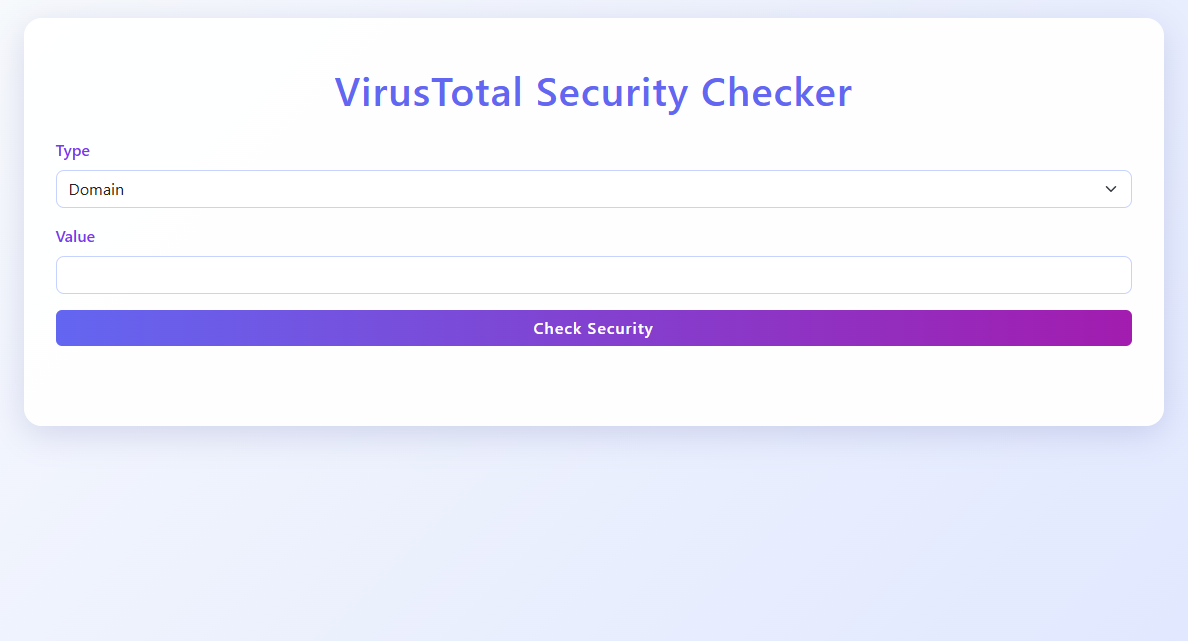
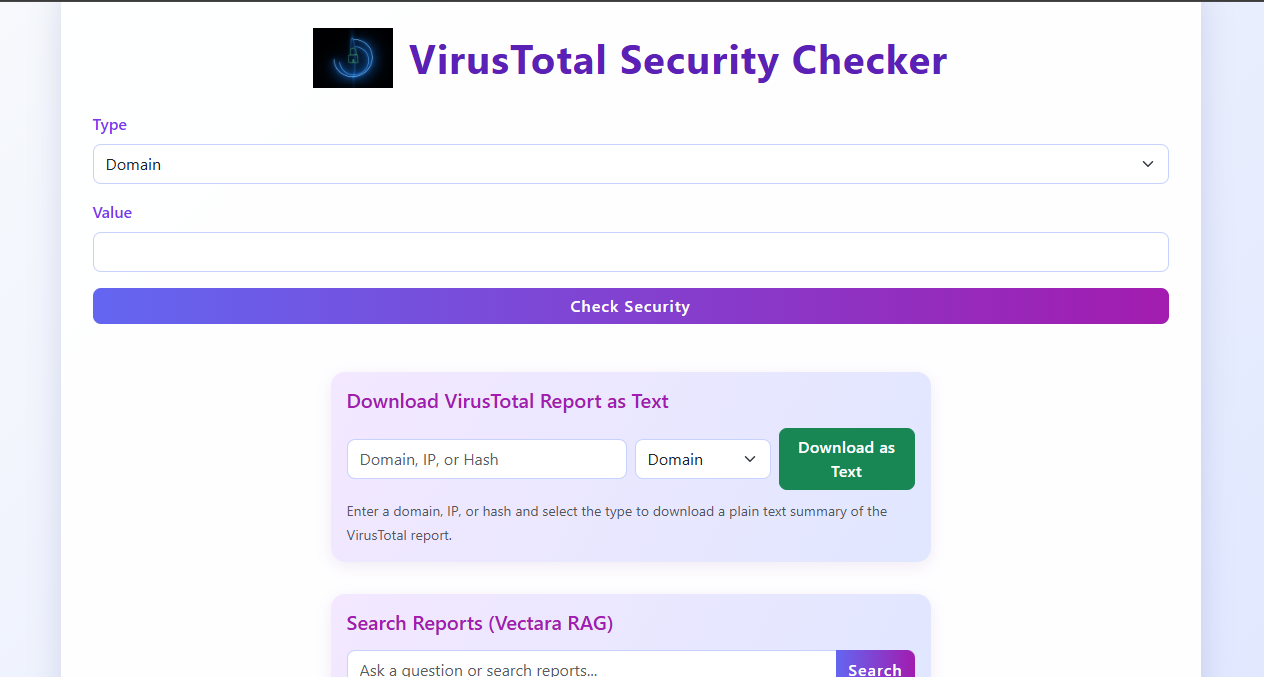
Update images

diff --git a/README.md b/README.md
@@ -1,7 +1,8 @@
 
+
 # VirusTotal Security Checker (FastAPI Web App)
 
-A modern, full-stack web application for checking the security status of domains, IP addresses, and file hashes using the VirusTotal API v3. Built with FastAPI, Python, HTML, CSS, and JavaScript.
+A modern, full-stack web application for checking the security status of domains, IP addresses, and file hashes using the VirusTotal API v3, Vectara RAG, and Anthropic Claude LLM. Built with FastAPI, Python, HTML, CSS, and JavaScript. Now includes AI-powered enrichment, RAG search, and color-coded UI for enhanced security insights.
 
 ---
 
@@ -23,42 +24,49 @@ A modern, full-stack web application for checking the security status of domains
 
 ### How to Use the VirusTotal Security Checker
 
+
 1. **Select Type:** Choose whether you want to check a Domain, IP Address, or File Hash from the dropdown menu.
 2. **Enter Value:** Input the domain name (e.g., example.com), IP address, or file hash (MD5, SHA1, or SHA256).
-   - For IP research, you can enter either a plain IPv4 address (e.g., "192.0.2.1") or an IPv4 address with CIDR notation (e.g., "192.0.2.0/24") according to your preference.
-3. **Check Security:** Click the "Check Security" button to analyze the input using VirusTotal.
-
+   - For IP research, you can enter either a plain IPv4 address (e.g., "192.0.2.1") or an IPv4 address with CIDR notation (e.g., "192.0.2.0/24").
+3. **Check Security:** Click the "Check Security" button to analyze the input using VirusTotal, Vectara, and Claude LLM.
 4. **View Results:**
-
     - See the overall status (Malicious, Suspicious, Harmless, Undetected) with color-coded badges.
     - Review detection statistics and a progress bar for a quick overview.
     - Filter vendor results by threat category using the provided buttons.
+    - View an AI-enriched summary generated by Claude LLM, with key security terms highlighted in color.
+    - See relevant RAG (Retrieval-Augmented Generation) snippets from Vectara for deeper context.
     - Click the link to view the full VirusTotal report for more details.
-    - Download the JSON report for your records.
+    - Download the JSON or plain text report for your records.
+5. **Vectara RAG Search:** Use the Vectara RAG search box to ask questions or search across uploaded reports for additional intelligence.
+6. **API Quota:** If available, your remaining VirusTotal API quota is displayed at the bottom of the results.
 
-5. **API Quota:** If available, your remaining VirusTotal API quota is displayed at the bottom of the results.
-
-**Note:** No user data is stored or logged. For best security, always use your own VirusTotal API key and deploy over HTTPS.
+**Note:** No user data is stored or logged. For best security, always use your own API keys and deploy over HTTPS.
 
 ---
+
 
 
 
 ## Features
 
 - Check domains, IP addresses, and file hashes for security status (malicious, suspicious, harmless, undetected)
+- AI-powered summary using Anthropic Claude LLM, with color-coded highlights for key security terms
+- Retrieval-Augmented Generation (RAG) search using Vectara: see relevant snippets and search across uploaded reports
+- Upload VirusTotal reports to Vectara for future RAG/search
 - Detailed vendor analysis with filtering by threat category
 - Detection statistics with colored badges and progress bars
 - Last analysis date and direct link to full VirusTotal report
-- Downloadable JSON report for each lookup
+- Downloadable JSON and plain text reports for each lookup
 - User-friendly, modern UI with Bootstrap and custom styles
 - API usage quota display (if available)
+- Robust error handling and user feedback for all enrichment features
+
 
 ## Tech Stack
 
-- **Backend:** FastAPI (Python 3.9+), Pydantic, httpx
+- **Backend:** FastAPI (Python 3.9+), Pydantic, httpx, Anthropic SDK
 - **Frontend:** HTML, CSS, Vanilla JS, Bootstrap
-- **API Integration:** VirusTotal API v3
+- **API Integration:** VirusTotal API v3, Vectara API, Anthropic Claude LLM
 - **Validation:** Pydantic models and custom validators
 - **Deployment:** GitHub, Heroku (or any cloud platform)
 
@@ -81,12 +89,17 @@ A modern, full-stack web application for checking the security status of domains
     pip install -r requirements.txt
     ```
 
+
 3. **Set up environment variables:**
 
     - Create a `.env` file in the project root:
 
       ```env
       VT_API_KEY=your_virustotal_api_key_here
+      VECTARA_API_KEY=your_vectara_api_key_here
+      VECTARA_CUSTOMER_ID=your_vectara_customer_id   # (numeric, e.g. 1234)
+      VECTARA_CORPUS_ID=your_vectara_corpus_id       # (numeric, e.g. 4)
+      ANTHROPIC_API_KEY=your_anthropic_api_key_here
       ```
 
 ---
@@ -103,26 +116,40 @@ A modern, full-stack web application for checking the security status of domains
 
 
 2. **Open your browser and visit:**
+
     - [http://localhost:8000/](http://localhost:8000/) for the local web interface
     - [http://localhost:8000/docs](http://localhost:8000/docs) for local API docs (Swagger UI)
     - [https://virustotal-security-checker-1ba82364afaa.herokuapp.com/](https://virustotal-security-checker-1ba82364afaa.herokuapp.com/) for the deployed web app on Heroku
 
 ---
 
+## Test Scripts
+
+- **Claude LLM Test:**
+    - `python test/test_claude.py` — Standalone test for Anthropic Claude API integration.
+- **Vectara Upload/Search Test:**
+    - `python test/test_vectara.py` — Standalone test for Vectara upload and search integration.
+
+---
+
+
 
 
 ## API Endpoints
 
-| Method | Endpoint            | Description                        |
-|--------|--------------------|------------------------------------|
-| GET    | /                  | Home page (web UI)                 |
-| GET    | /research_domain   | Check domain security status       |
-| GET    | /research_ip       | Check IP address reputation        |
-| GET    | /research_hash     | Check file hash against VirusTotal |
-| POST   | /items/{item_id}   | (Demo) Create a new item           |
-| GET    | /items/{item_id}   | (Demo) Get item by ID              |
-| PUT    | /items/{item_id}   | (Demo) Update item                 |
-| DELETE | /items/{item_id}   | (Demo) Delete item                 |
+| Method | Endpoint                | Description                                 |
+|--------|------------------------|---------------------------------------------|
+| GET    | /                      | Home page (web UI)                          |
+| GET    | /research_domain       | Check domain security status                |
+| GET    | /research_ip           | Check IP address reputation                 |
+| GET    | /research_hash         | Check file hash against VirusTotal          |
+| POST   | /vectara/upload_report | Upload a text report to Vectara corpus      |
+| POST   | /vectara/search        | Search the Vectara corpus for relevant docs |
+| GET    | /download_report_text  | Download VirusTotal report as plain text    |
+| POST   | /items/{item_id}       | (Demo) Create a new item                    |
+| GET    | /items/{item_id}       | (Demo) Get item by ID                       |
+| PUT    | /items/{item_id}       | (Demo) Update item                          |
+| DELETE | /items/{item_id}       | (Demo) Delete item                          |
 
 ---
 
@@ -138,9 +165,19 @@ A modern, full-stack web application for checking the security status of domains
 ## Screenshots
 
 
+
 ![Home Page](static/screenshots/homepage.png)
 ![Domain Check Result](static/screenshots/domain_result.png)
 ![IP Check Result](static/screenshots/ip_result.png)
+
+---
+
+## Additional Features & Notes
+
+- Claude LLM summaries and Vectara RAG results are shown in the UI with color-coded highlights for key security terms (malicious, suspicious, harmless, etc.).
+- All enrichment features (VirusTotal, Vectara, Claude) are robustly error-handled and provide user feedback.
+- The UI includes a security-themed GIF next to the title for a modern look (see `static/images/CyberSecurity.gif`).
+- All features are designed to work together without breaking existing functionality.
 
 ---
 
